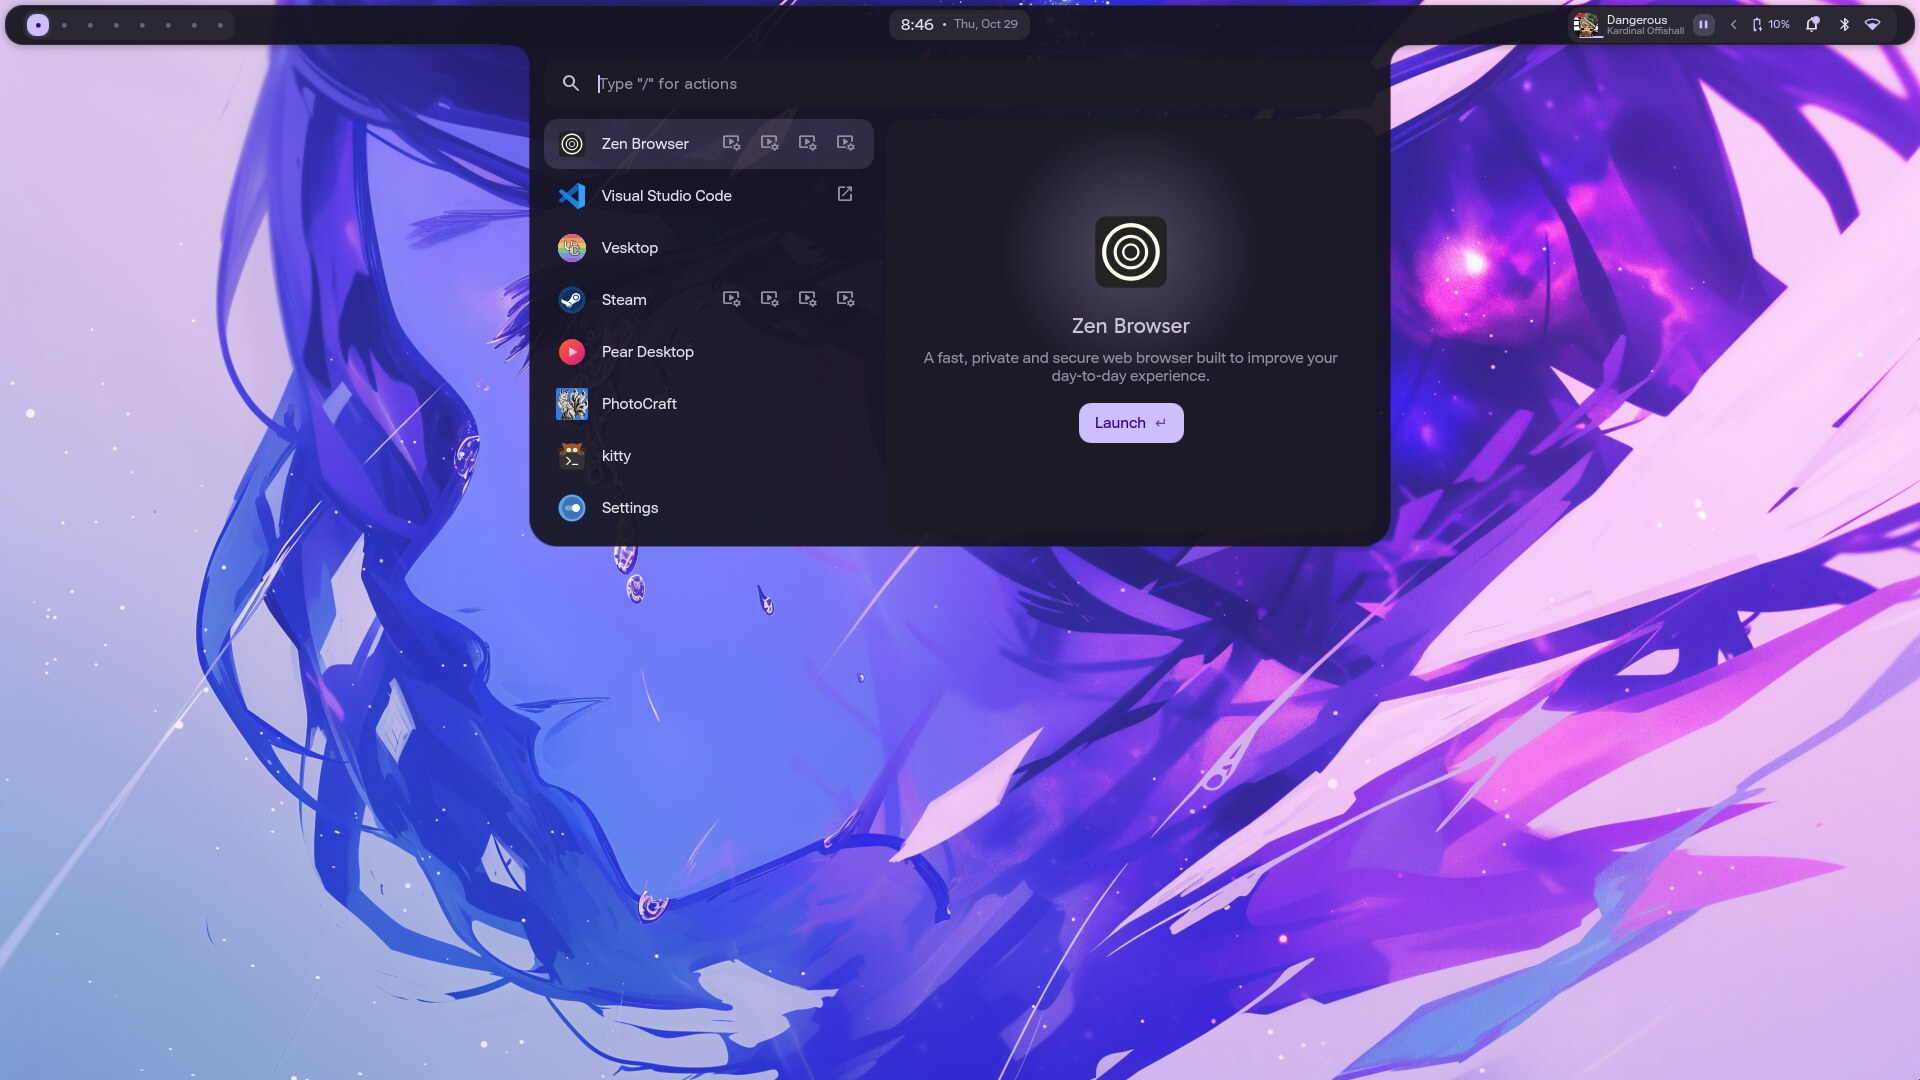
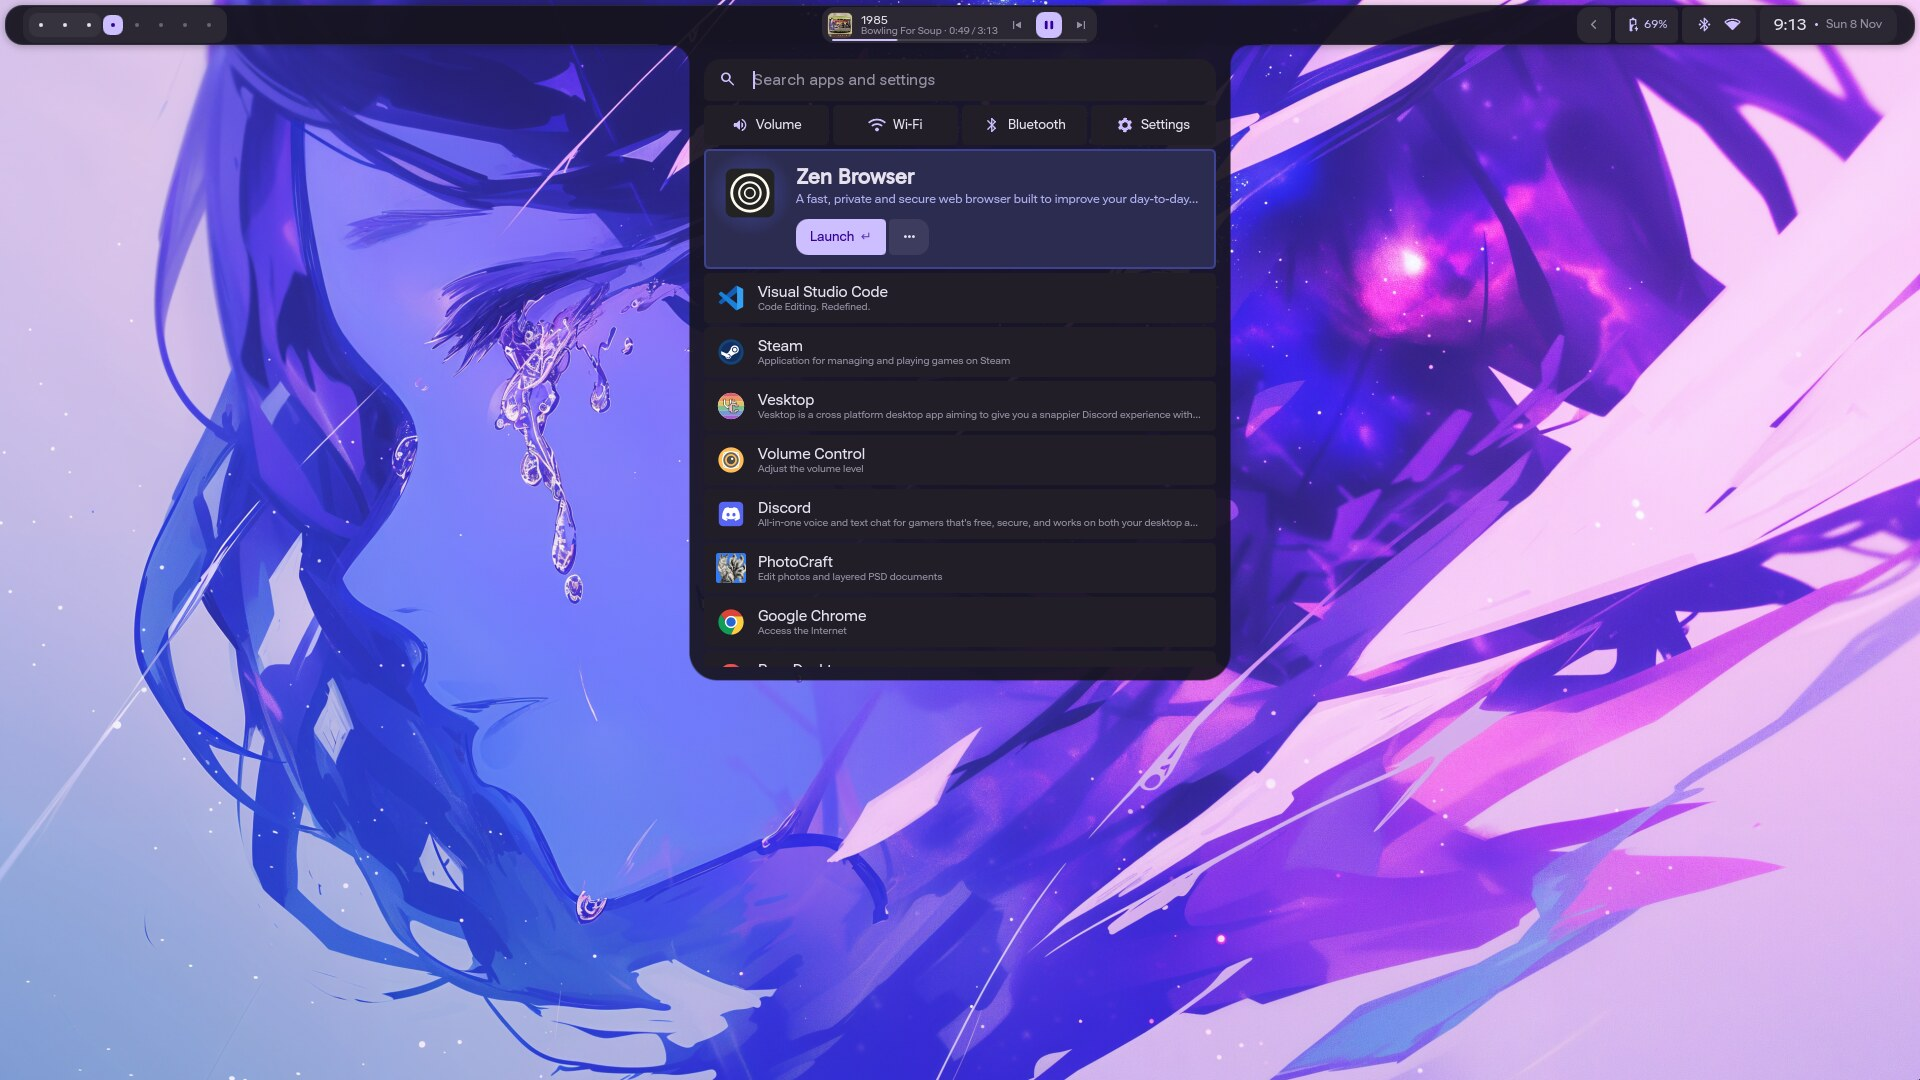
README: new screenshots of the app search, sidebar, power menu, Settings and desktop; the password prompt added

diff --git a/README.md b/README.md
@@ -69,12 +69,12 @@ gameplay clips and live settings. Change the wallpaper and everything follows.
 <table>
 <tr>
 <td width="50%" align="center">
-<img src="assets/readme/overview.jpg" alt="The overview: app search with a preview of the selected app"><br>
-<sub><b>Overview</b> · apps, clipboard, emoji, web search</sub>
+<img src="assets/readme/overview.jpg" alt="App search dropping from the bar: Volume, Wi-Fi, Bluetooth and Settings buttons under the search field, and the chosen app grown into a card tinted by its icon, with Launch and its actions"><br>
+<sub><b>App search</b> · apps, settings pages, clipboard, emoji, maths, web</sub>
 </td>
 <td width="50%" align="center">
-<img src="assets/readme/sidebar-panel.jpg" alt="Sidebar with quick toggles, grouped notifications and system stats"><br>
-<sub><b>Sidebar</b> · toggles, notifications, system stats</sub>
+<img src="assets/readme/sidebar-panel.jpg" alt="Sidebar: a greeting with the weather, quick toggles, the volume over RAM, CPU and GPU, and the newest notification as a tinted card"><br>
+<sub><b>Sidebar</b> · toggles, sound, system stats, notifications</sub>
 </td>
 </tr>
 <tr>
@@ -83,7 +83,7 @@ gameplay clips and live settings. Change the wallpaper and everything follows.
 <sub><b>Settings</b> · every option, applied live</sub>
 </td>
 <td width="50%" align="center">
-<img src="assets/readme/power-menu.jpg" alt="Power menu with lock, sleep, reboot, shut down and the battery level"><br>
+<img src="assets/readme/power-menu.jpg" alt="Power menu: your wallpaper and picture up top with the uptime and battery, then lock, sleep, reboot and shut down, with log out, tasks and firmware under them"><br>
 <sub><b>Power menu</b> · a countdown before anything closes your apps</sub>
 </td>
 </tr>
@@ -95,6 +95,12 @@ gameplay clips and live settings. Change the wallpaper and everything follows.
 <td width="50%" align="center">
 <img src="assets/readme/cursor-accent.jpg" alt="The cursor in four accents: lavender, teal, coral and grey"><br>
 <sub><b>Cursor</b> · takes the wallpaper's accent, like the folder icons</sub>
+</td>
+</tr>
+<tr>
+<td colspan="2" align="center">
+<img src="assets/readme/polkit.jpg" alt="The password prompt dropping from the bar: a shield, what is asking and why, the password field with your picture, Cancel and Authenticate"><br>
+<sub><b>Password prompt</b> · says what's asking and why, warns about Caps Lock</sub>
 </td>
 </tr>
 </table>
